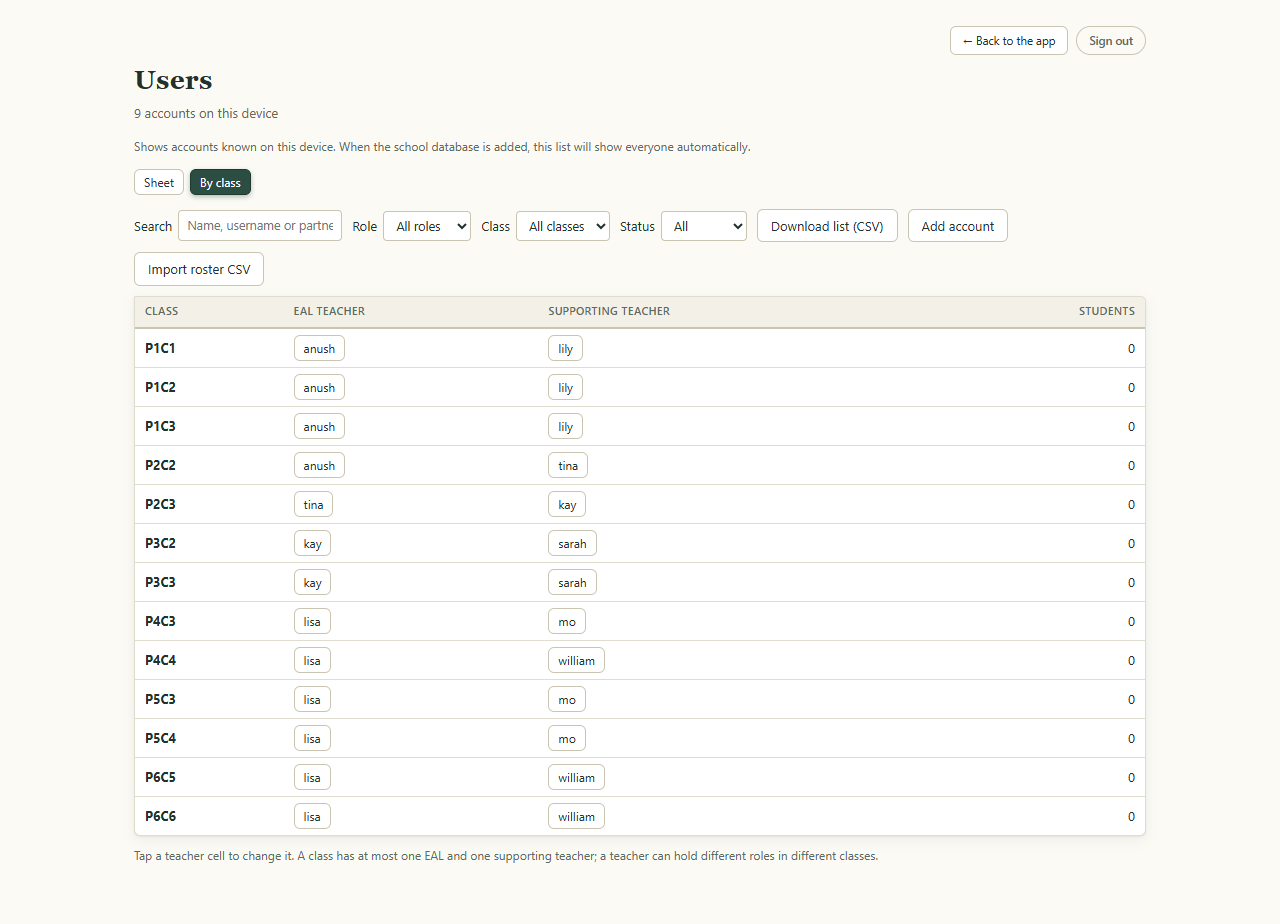
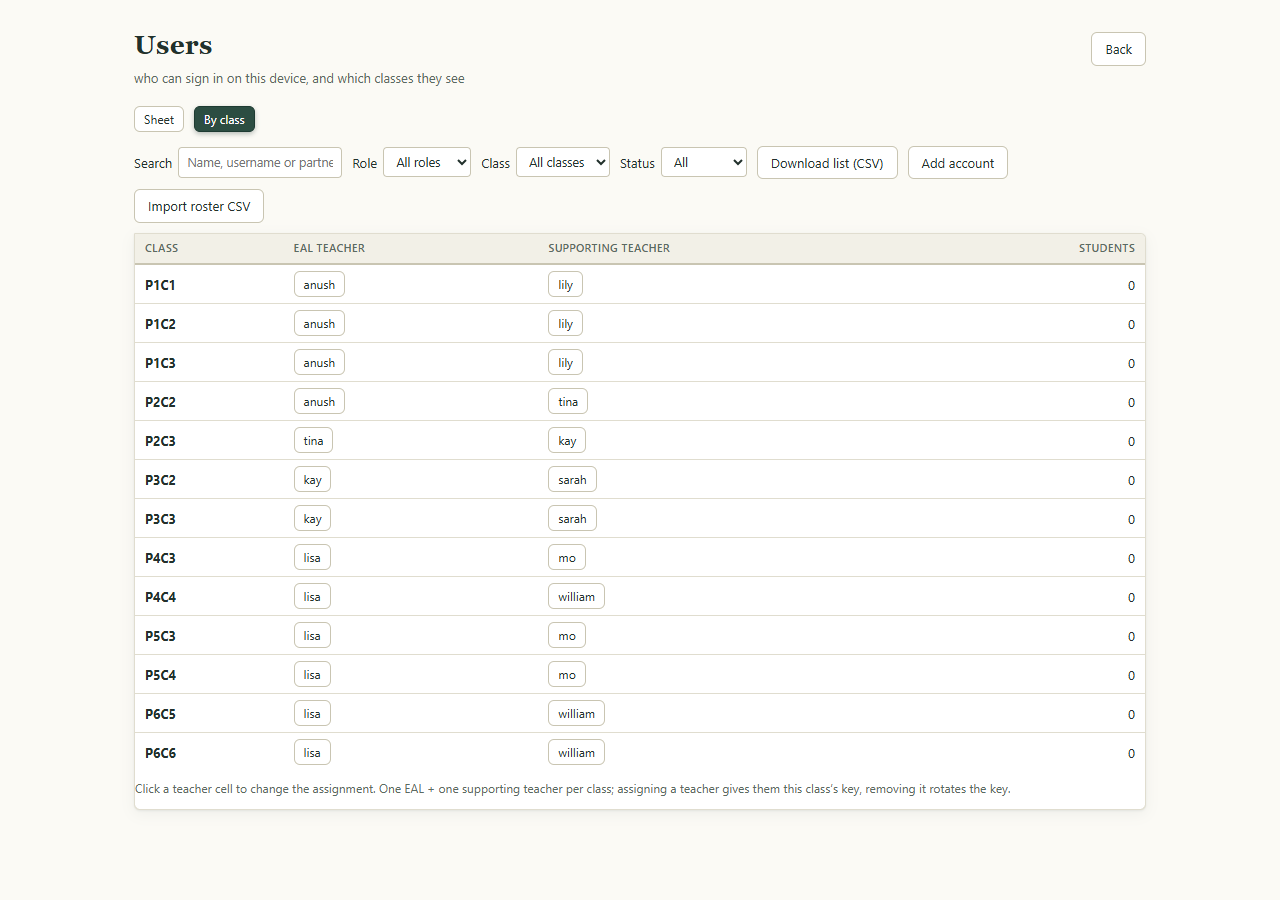
round9: fix round5 race (wait for wizard tail) + em-dash prose rule in new strings

diff --git a/app/index.html b/app/index.html
@@ -708,7 +708,7 @@ select.inp:focus, input.inp:focus, textarea.inp:focus {
 <body>
 <div id="app"></div>
 <input type="file" id="file-restore-all" accept=".json,application/json" hidden>
-<script>window.SPR_BUILD="e6e49ed3ce";</script>
+<script>window.SPR_BUILD="db5bbb6610";</script>
 <script>window.SPR_NOTICE={"version": "1", "date": "28 Oct 2026", "en": "<h4>About SPR and your student data</h4>\n<p>SPR (Student's Performance Report) is a free markbook made by Mohammed Shehzad Khan (Teacher Mo), an ESL teacher, to help teachers at his school record scores and print report cards. It is a teacher's tool. It is not a commercial product and it is not a school information system.</p>\n<h4>Whose data this is</h4>\n<p>The student records you enter belong to your school. The school decides who may use them and how long they are kept. The maker of SPR does not collect, hold, read or sell your data and has no way to open your classes.</p>\n<h4>Where data is kept</h4>\n<p>Data is stored inside the browser on the device you use. It is encrypted with your password. If you forget the password and no master password or backup exists, the data cannot be recovered by anyone. Exported Excel and backup files are not encrypted; keep them only on school-approved storage and delete them when no longer needed.</p>\n<h4>When data leaves the device</h4>\n<p>Nothing is sent anywhere unless an admin turns on Device sync or someone uses Save &amp; Share. In that case an encrypted copy is stored on Supabase, a third-party hosting service. SPR does not use analytics or advertising trackers.</p>\n<h4>Your part</h4>\n<p>Use a screen lock. Do not use shared or public computers. Download a backup after each working session. Follow your school's rules and the law that applies to you (for example PIPL in China) when you handle or share student information.</p>\n<h4>No warranty</h4>\n<p>SPR is provided as is, without warranty of any kind. It may contain errors. Grades and comments it produces must be checked by a teacher before they are used. To the extent the law allows, the maker is not responsible for lost or corrupted data, wrong grades, or any use of the tool. Browsers can delete site data; backups are the only protection.</p>\n<h4>Questions or problems</h4>\n<p>Use Help &amp; training &gt; Raise a request, or contact the school administrator.</p>", "zh": "<h4>关于 SPR 和学生数据</h4>\n<p>SPR(学生成绩报告)是由英语教师 Mohammed Shehzad Khan(Teacher Mo)自行开发的免费成绩记录工具,用于帮助本校教师录入成绩和打印报告单。它是教师使用的辅助工具,不是商业产品,也不是学校的正式信息系统。</p>\n<h4>数据归属</h4>\n<p>您录入的学生资料属于学校。学校决定谁可以使用这些数据以及保存多久。SPR 的开发者不收集、不保存、不查看、不出售任何数据,也无法打开您的班级数据。</p>\n<h4>数据存放位置</h4>\n<p>数据保存在您所用设备的浏览器中,并用您的密码加密。如果忘记密码,又没有主密码或备份,任何人都无法恢复数据。导出的 Excel 和备份文件没有加密,请只保存在学校认可的存储位置,不需要时请删除。</p>\n<h4>数据何时离开设备</h4>\n<p>除非管理员开启“设备同步”或有人使用“保存并分享”,否则不会向任何地方发送数据。开启后,加密副本会存放在第三方托管服务 Supabase 上。SPR 不使用统计分析或广告追踪。</p>\n<h4>您的责任</h4>\n<p>请设置屏幕锁定;不要在共用或公共电脑上使用;每次使用后下载一份备份;处理或分享学生信息时,请遵守学校规定和适用法律(例如中国的《个人信息保护法》)。</p>\n<h4>免责声明</h4>\n<p>SPR 按“现状”提供,不附带任何形式的保证,可能存在错误。由它生成的成绩和评语须经教师核对后方可使用。在法律允许的范围内,开发者不对数据丢失或损坏、成绩错误或任何使用后果承担责任。浏览器可能清除网站数据,备份是唯一的保障。</p>\n<h4>问题反馈</h4>\n<p>请使用“帮助与培训 &gt; 提交请求”,或联系学校管理员。</p>"};</script>
 <div id="toast-root" aria-live="polite"></div>
 <dialog id="dlg"></dialog>
@@ -4201,7 +4201,7 @@ window.SEED = {"semesters": [{"id": "demo-sample-2025-fall", "name": "Sample 202
       for (const c of r.classes) if (c.school && school && c.school !== school) schoolWarn.push(c.name);
       const picks = r.unpicked || [];
       const rowsAcc = r.users.map((u) => '<tr><td>' + U.esc(u.username) + '</td><td>' + U.esc(u.display_name || u.username) + '</td><td>' + U.esc(roleLabel(u.role)) + '</td><td>' + U.esc((u.classes || []).join(', ')) + '</td></tr>').join('');
-      const pickRows = picks.length ? '<p class="small" style="margin:8px 0 2px"><b>Who is EAL in each class?</b> The file does not say — pick below. SPR never guesses.</p><div class="sheet" style="max-height:200px;overflow:auto"><table class="tbl"><thead><tr><th>Class</th><th>EAL / Supporting</th></tr></thead><tbody>' +
+      const pickRows = picks.length ? '<p class="small" style="margin:8px 0 2px"><b>Who is EAL in each class?</b> The file does not say, so pick below. SPR never guesses.</p><div class="sheet" style="max-height:200px;overflow:auto"><table class="tbl"><thead><tr><th>Class</th><th>EAL / Supporting</th></tr></thead><tbody>' +
         picks.map((c, i) => {
           const members = (r.users.filter((u) => (u.classes || []).indexOf(c) !== -1).map((u) => u.username));
           const opts = members.map((m) => '<option value="' + U.esc(m) + '">' + U.esc(m) + '</option>').join('');
@@ -4213,7 +4213,7 @@ window.SEED = {"semesters": [{"id": "demo-sample-2025-fall", "name": "Sample 202
         (schoolWarn.length ? '<p class="small">School column differs from the Manage &amp; setup school setting ("' + U.esc(school) + '"): ' + U.esc(schoolWarn.join(', ')) + '. Imported anyway.</p>' : '') +
         '<div class="sheet" style="max-height:220px;overflow:auto"><table class="tbl"><thead><tr><th>username</th><th>display name</th><th>role</th><th>classes</th></tr></thead><tbody>' + rowsAcc + '</tbody></table></div>' +
         pickRows +
-        '<p class="small">Check every class pair. Where the file says who is EAL it is pre-filled; otherwise pick — SPR never guesses. New accounts get a one-time password.</p>' +
+        '<p class="small">Check every class pair. Where the file says who is EAL it is pre-filled; otherwise pick below; SPR never guesses. New accounts get a one-time password.</p>' +
         '<div class="dlg-actions"><button class="btn" data-x="0">Cancel</button><button class="btn primary" data-x="1"' + ((r.errors.length || picks.length) ? ' disabled' : '') + '>Import</button></div>',
         function (d) {
           const apply = () => {
@@ -8482,7 +8482,7 @@ window.SEED = {"semesters": [{"id": "demo-sample-2025-fall", "name": "Sample 202
        failure: back off 30 s. */
     if (!dsCanPush()) { dsLog('skip: cannot push (signed out / sync off) | why=' + dsWhy); return 'held'; }
     if (dsHoldPush) { dsLog('skip: a pull-check is deciding local-vs-cloud (dialog open) | why=' + dsWhy); return 'held'; }   /* never overwrite mid-decision */
-    if (dsPushBusy) { dsRerunAfterFlight = true; dsLog('skip: a push is already in flight — coalesced, re-runs after it finishes | why=' + dsWhy); return 'held'; }
+    if (dsPushBusy) { dsRerunAfterFlight = true; dsLog('skip: a push is already in flight - coalesced, re-runs after it finishes | why=' + dsWhy); return 'held'; }
     dsPushBusy = true;
     try {
       return await dsPushNowInner(interactive);
@@ -8714,7 +8714,7 @@ window.SEED = {"semesters": [{"id": "demo-sample-2025-fall", "name": "Sample 202
     /* R1 root cause: a BACKGROUND check must never park pushes on a modal
        that may never be answered. Interactive checks keep the dialog. */
     if (!interactive) {
-      dsLog('pull-check: newer cloud copy found — passive notice, NO dialog (R1) | cloudTs=' + new Date(cloudTs).toISOString().slice(11, 19) + ' boot=' + new Date(DS_BOOT_TS).toISOString().slice(11, 19));
+      dsLog('pull-check: newer cloud copy found - passive notice, NO dialog (R1) | cloudTs=' + new Date(cloudTs).toISOString().slice(11, 19) + ' boot=' + new Date(DS_BOOT_TS).toISOString().slice(11, 19));
       cfg.cloudAhead = { at: new Date().toISOString(), by: row.pushed_by || 'another device' }; dsSaveCfg(cfg);
       toast('A newer cloud copy is waiting: Manage \u2192 Device sync \u2192 Check for newer copy');
       return;

diff --git a/source/app.js b/source/app.js
@@ -1220,7 +1220,7 @@
       for (const c of r.classes) if (c.school && school && c.school !== school) schoolWarn.push(c.name);
       const picks = r.unpicked || [];
       const rowsAcc = r.users.map((u) => '<tr><td>' + U.esc(u.username) + '</td><td>' + U.esc(u.display_name || u.username) + '</td><td>' + U.esc(roleLabel(u.role)) + '</td><td>' + U.esc((u.classes || []).join(', ')) + '</td></tr>').join('');
-      const pickRows = picks.length ? '<p class="small" style="margin:8px 0 2px"><b>Who is EAL in each class?</b> The file does not say — pick below. SPR never guesses.</p><div class="sheet" style="max-height:200px;overflow:auto"><table class="tbl"><thead><tr><th>Class</th><th>EAL / Supporting</th></tr></thead><tbody>' +
+      const pickRows = picks.length ? '<p class="small" style="margin:8px 0 2px"><b>Who is EAL in each class?</b> The file does not say, so pick below. SPR never guesses.</p><div class="sheet" style="max-height:200px;overflow:auto"><table class="tbl"><thead><tr><th>Class</th><th>EAL / Supporting</th></tr></thead><tbody>' +
         picks.map((c, i) => {
           const members = (r.users.filter((u) => (u.classes || []).indexOf(c) !== -1).map((u) => u.username));
           const opts = members.map((m) => '<option value="' + U.esc(m) + '">' + U.esc(m) + '</option>').join('');
@@ -1232,7 +1232,7 @@
         (schoolWarn.length ? '<p class="small">School column differs from the Manage &amp; setup school setting ("' + U.esc(school) + '"): ' + U.esc(schoolWarn.join(', ')) + '. Imported anyway.</p>' : '') +
         '<div class="sheet" style="max-height:220px;overflow:auto"><table class="tbl"><thead><tr><th>username</th><th>display name</th><th>role</th><th>classes</th></tr></thead><tbody>' + rowsAcc + '</tbody></table></div>' +
         pickRows +
-        '<p class="small">Check every class pair. Where the file says who is EAL it is pre-filled; otherwise pick — SPR never guesses. New accounts get a one-time password.</p>' +
+        '<p class="small">Check every class pair. Where the file says who is EAL it is pre-filled; otherwise pick below; SPR never guesses. New accounts get a one-time password.</p>' +
         '<div class="dlg-actions"><button class="btn" data-x="0">Cancel</button><button class="btn primary" data-x="1"' + ((r.errors.length || picks.length) ? ' disabled' : '') + '>Import</button></div>',
         function (d) {
           const apply = () => {
@@ -5501,7 +5501,7 @@
        failure: back off 30 s. */
     if (!dsCanPush()) { dsLog('skip: cannot push (signed out / sync off) | why=' + dsWhy); return 'held'; }
     if (dsHoldPush) { dsLog('skip: a pull-check is deciding local-vs-cloud (dialog open) | why=' + dsWhy); return 'held'; }   /* never overwrite mid-decision */
-    if (dsPushBusy) { dsRerunAfterFlight = true; dsLog('skip: a push is already in flight — coalesced, re-runs after it finishes | why=' + dsWhy); return 'held'; }
+    if (dsPushBusy) { dsRerunAfterFlight = true; dsLog('skip: a push is already in flight - coalesced, re-runs after it finishes | why=' + dsWhy); return 'held'; }
     dsPushBusy = true;
     try {
       return await dsPushNowInner(interactive);
@@ -5733,7 +5733,7 @@
     /* R1 root cause: a BACKGROUND check must never park pushes on a modal
        that may never be answered. Interactive checks keep the dialog. */
     if (!interactive) {
-      dsLog('pull-check: newer cloud copy found — passive notice, NO dialog (R1) | cloudTs=' + new Date(cloudTs).toISOString().slice(11, 19) + ' boot=' + new Date(DS_BOOT_TS).toISOString().slice(11, 19));
+      dsLog('pull-check: newer cloud copy found - passive notice, NO dialog (R1) | cloudTs=' + new Date(cloudTs).toISOString().slice(11, 19) + ' boot=' + new Date(DS_BOOT_TS).toISOString().slice(11, 19));
       cfg.cloudAhead = { at: new Date().toISOString(), by: row.pushed_by || 'another device' }; dsSaveCfg(cfg);
       toast('A newer cloud copy is waiting: Manage \u2192 Device sync \u2192 Check for newer copy');
       return;

diff --git a/tests/test-round5.js b/tests/test-round5.js
@@ -285,10 +285,12 @@ const SYNC_KEY = b64u(webcrypto.getRandomValues(new Uint8Array(32)));
     check(krIn, 'admin holds the class key in their keyring (per-class access)');
     /* add a teacher (class-mode admin: the sign-ins live on the Users tab),
        then sign in as the teacher in a fresh window and check scope */
+    /* round9: the wizard's async tail (openClass + key wraps, real PBKDF2 in
+       jsdom) ends with `location.hash = '#/dashboard'; route()` — it can land
+       AFTER this point and clobber '#/users'. Wait for it to settle first. */
+    await (async () => { for (let t = 0; t < 80; t++) { await sleep(250); if (A.w.location.hash === '#/dashboard' && (A.d.querySelector('.rail') || A.d.querySelector('#usersSheet'))) break; } })();
+    await sleep(700);   /* one quiet beat: no further hash writes in flight */
     A.w.location.hash = '#/users';
-    console.log('    [dbg] hash immediately:', A.w.location.hash);
-    await sleep(1200);
-    console.log('    [dbg] hash after 1.2s:', A.w.location.hash, '| addBtn:', !!A.d.querySelector('[data-action="acct-add-open"]'));
     /* condition, not a sleep: the tab renders after the session restore */
     await (async () => { for (let t = 0; t < 60; t++) { if (A.d.querySelector('[data-action="acct-add-open"]')) return; await sleep(250); } })();
     /* the recovery-file nudge (round5 item 3) can steal the single dialog at

diff --git a/app/sw.js b/app/sw.js
@@ -5,7 +5,7 @@
    shell (single HTML file + manifest + icons) is precached, and requests to
    other origins (Share & Sync: npoint / Supabase) are always passed through. */
 
-const CACHE = 'spr-app-shell-a6c8356ae4';
+const CACHE = 'spr-app-shell-db5bbb6610';
 const APP_SHELL = ['./', './index.html']; /* owner decision: no web-app manifest — app shell only */
 
 const OFFLINE_FALLBACK = '<!doctype html><html lang="en"><head><meta charset="utf-8">' +
